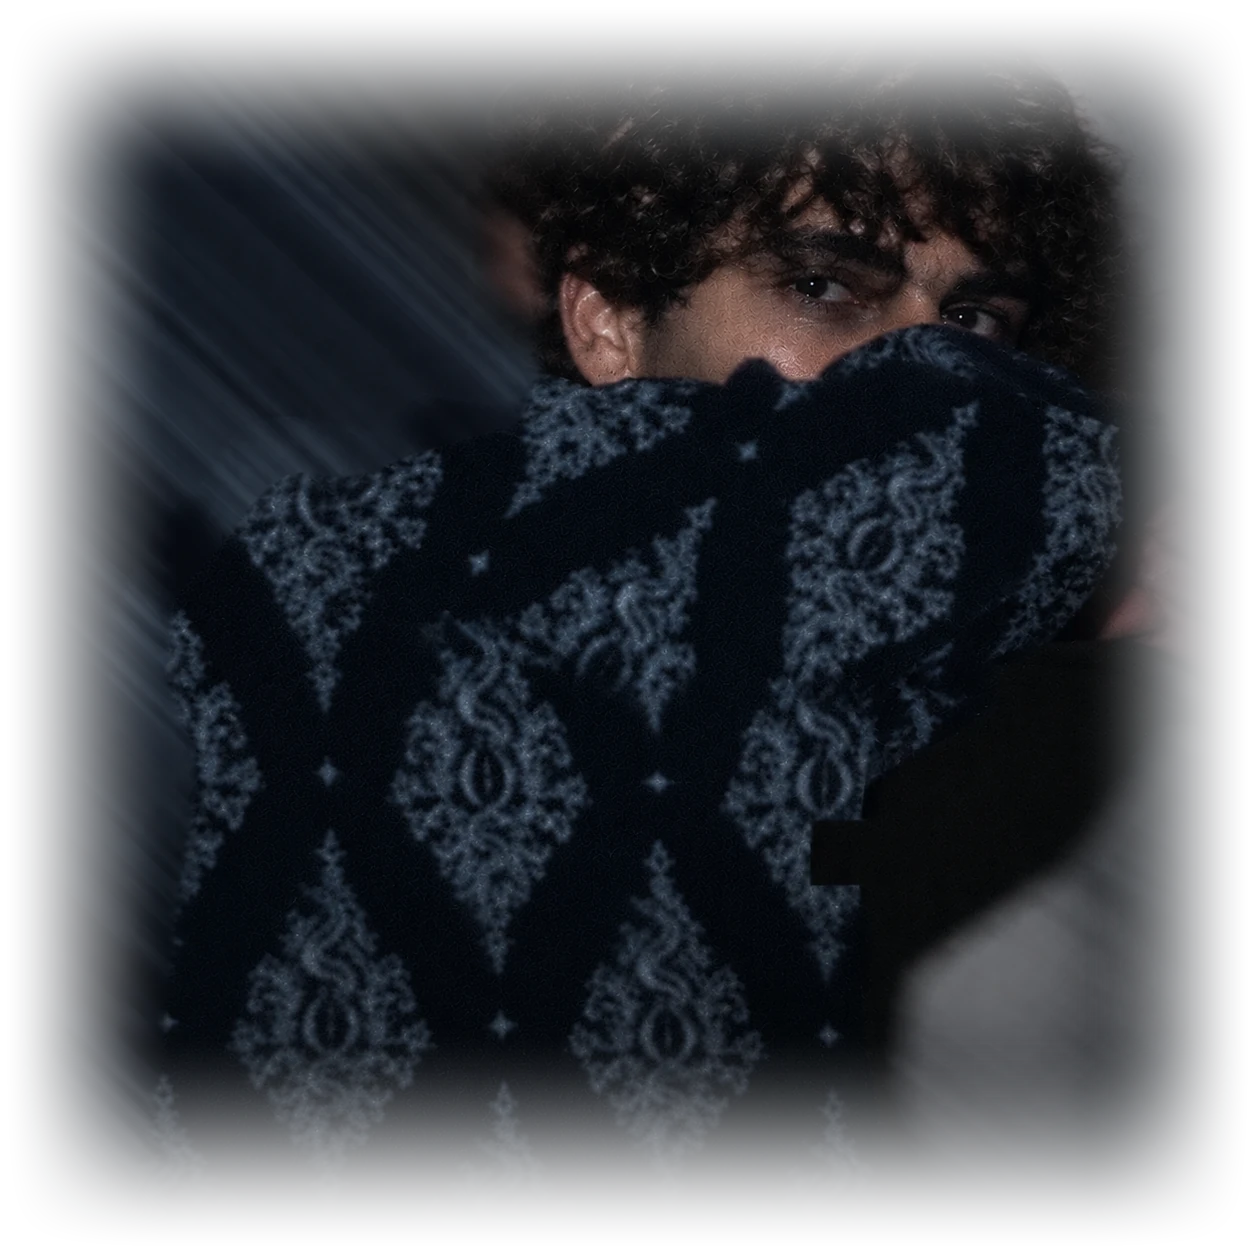
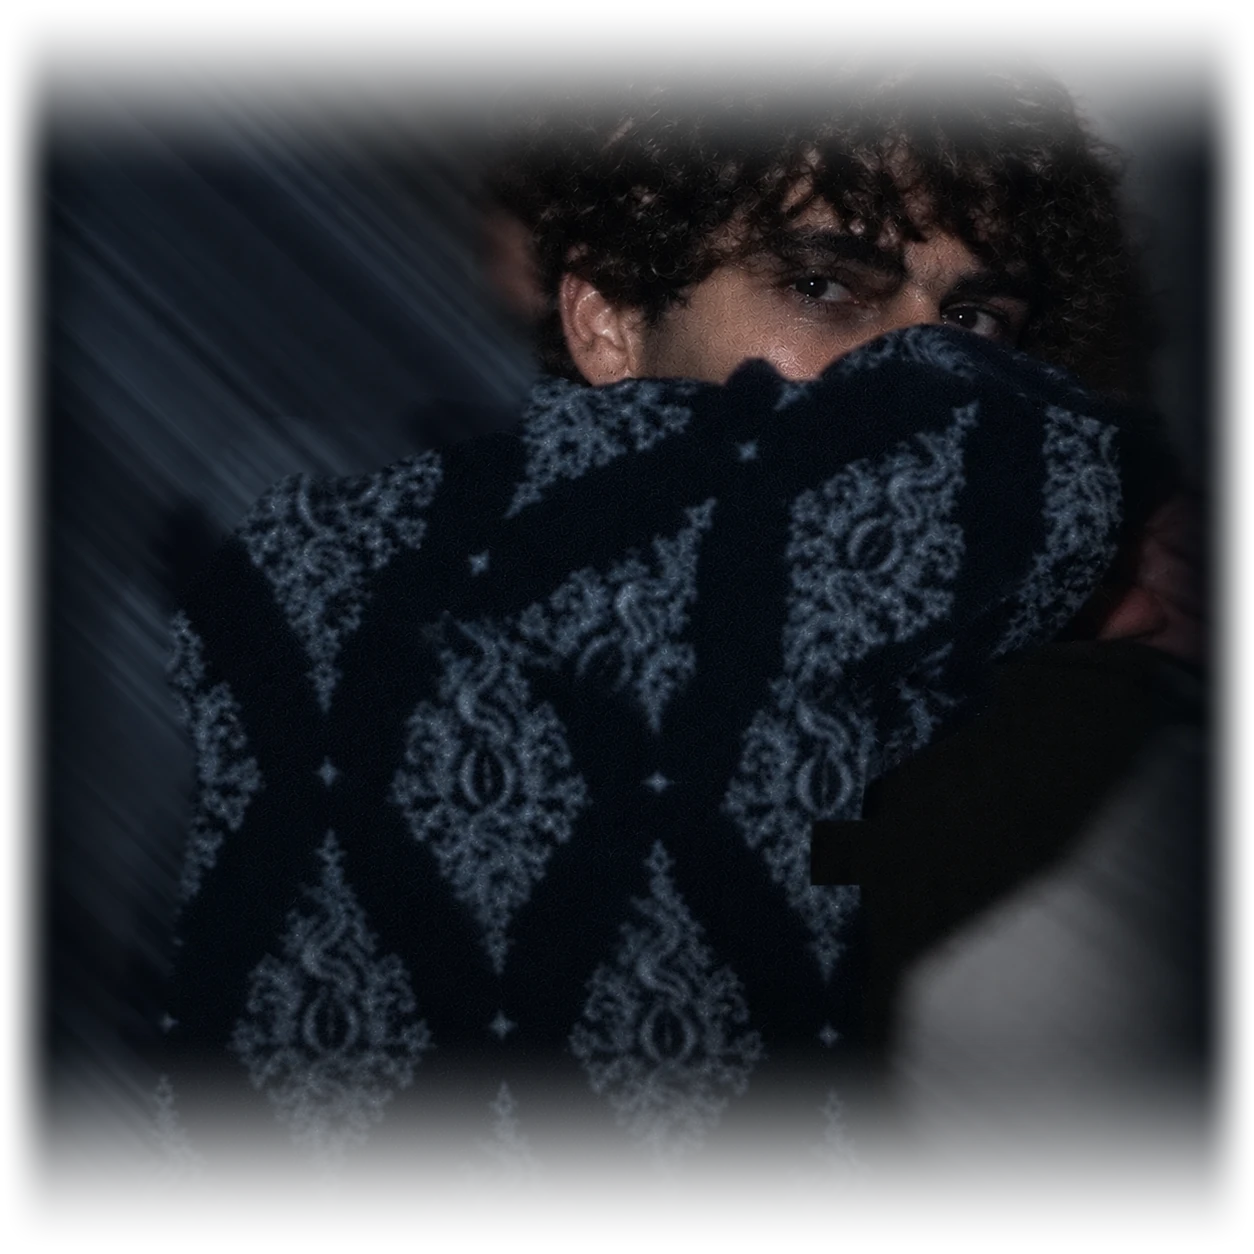
Drop 001: the two touch instead of overlapping, and the picture is a little bigger
Pulling it up three rows made them overlap, not touch (David, 4 Nov: "They
aren't touching, they are overlapping"). It starts on the row Paris 5 ends on
now, so they meet exactly once. The fades stay as they were ("You can keep
fade").

And it is two rows taller than wide, so it fills the screen end to end with only
the slightest fade at the sides, rather than fading off well before them
("Make it bigger now, not by much ... grow it end to end of the screen").

Still not merged.

Claude-Session: https://claude.ai/code/session_0133zY8XS34wo411gu5jDnJr

Changed region(s): [[0.0, 0.0311, 0.1244, 0.9641], [0.8708, 0.0311, 0.9952, 0.9641]]

diff --git a/index.html b/index.html
@@ -930,9 +930,10 @@ html, body{overflow-x:clip}
       <figure class="pop" style="grid-area:12 / 7 / 24 / 13; z-index:3; --pi:0 2% 14.6% 0; --px:45%; --ps:1.42; --po:64% 61.3%"><img style="object-position:45% 50%" src="drop/assets/street-04-x.webp" width="1254" height="1881" decoding="async" alt="Hood up beside a stone column at night, under a lit street lamp" loading="lazy"><img class="popfig" src="drop/assets/pop-04-x.webp" width="1254" height="1881" alt="" aria-hidden="true" loading="lazy" decoding="async"></figure>
       <figure class="pop loner" style="grid-area:24 / 1 / 39 / 13; z-index:1; --pi:0; --px:50%"><img style="object-position:50% 30%" src="drop/assets/street-06-rgb.webp" width="1094" height="1406" decoding="async" alt="The hood up, close: the emblem across it, the face in its shadow" loading="lazy"></figure>
       <!-- the sleeve over his face, under Paris 5 (David, 4 Nov: "Just add it below it actually"). Square, full width, so it is not
-           cropped, and pulled up three rows so its faded top overlaps Paris 5's faded foot and the two
-           touch rather than leaving the backdrop showing between them ("Touch the two together"). -->
-      <figure style="grid-area:36 / 1 / 48 / 13; z-index:1"><img src="drop/assets/street-23.webp" width="1254" height="1254" decoding="async" alt="The sleeve pulled up over his face, the knit close, against a pale wall" loading="lazy"></figure>
+           cropped, starting on the row Paris 5 ends on, with no fade on its top, so the two
+           touch without overlapping ("They aren't touching, they are overlapping"), and a touch taller
+           than wide so it runs end to end of the screen ("grow it end to end of the screen"). -->
+      <figure style="grid-area:39 / 1 / 53 / 13; z-index:1"><img src="drop/assets/street-23.webp" width="1254" height="1254" decoding="async" alt="The sleeve pulled up over his face, the knit close, against a pale wall" loading="lazy"></figure>
       <i class="seamglow" aria-hidden="true" style="grid-area:23 / 1 / 28 / 9"></i>
     </div>
     <figure class="one bleed"><img style="object-position:55% 50%" src="drop/assets/street-07-f.webp" width="1412" height="1402" decoding="async" alt="Walking away across wet stone at night, hood up, a lit colonnade behind" loading="lazy"></figure>
